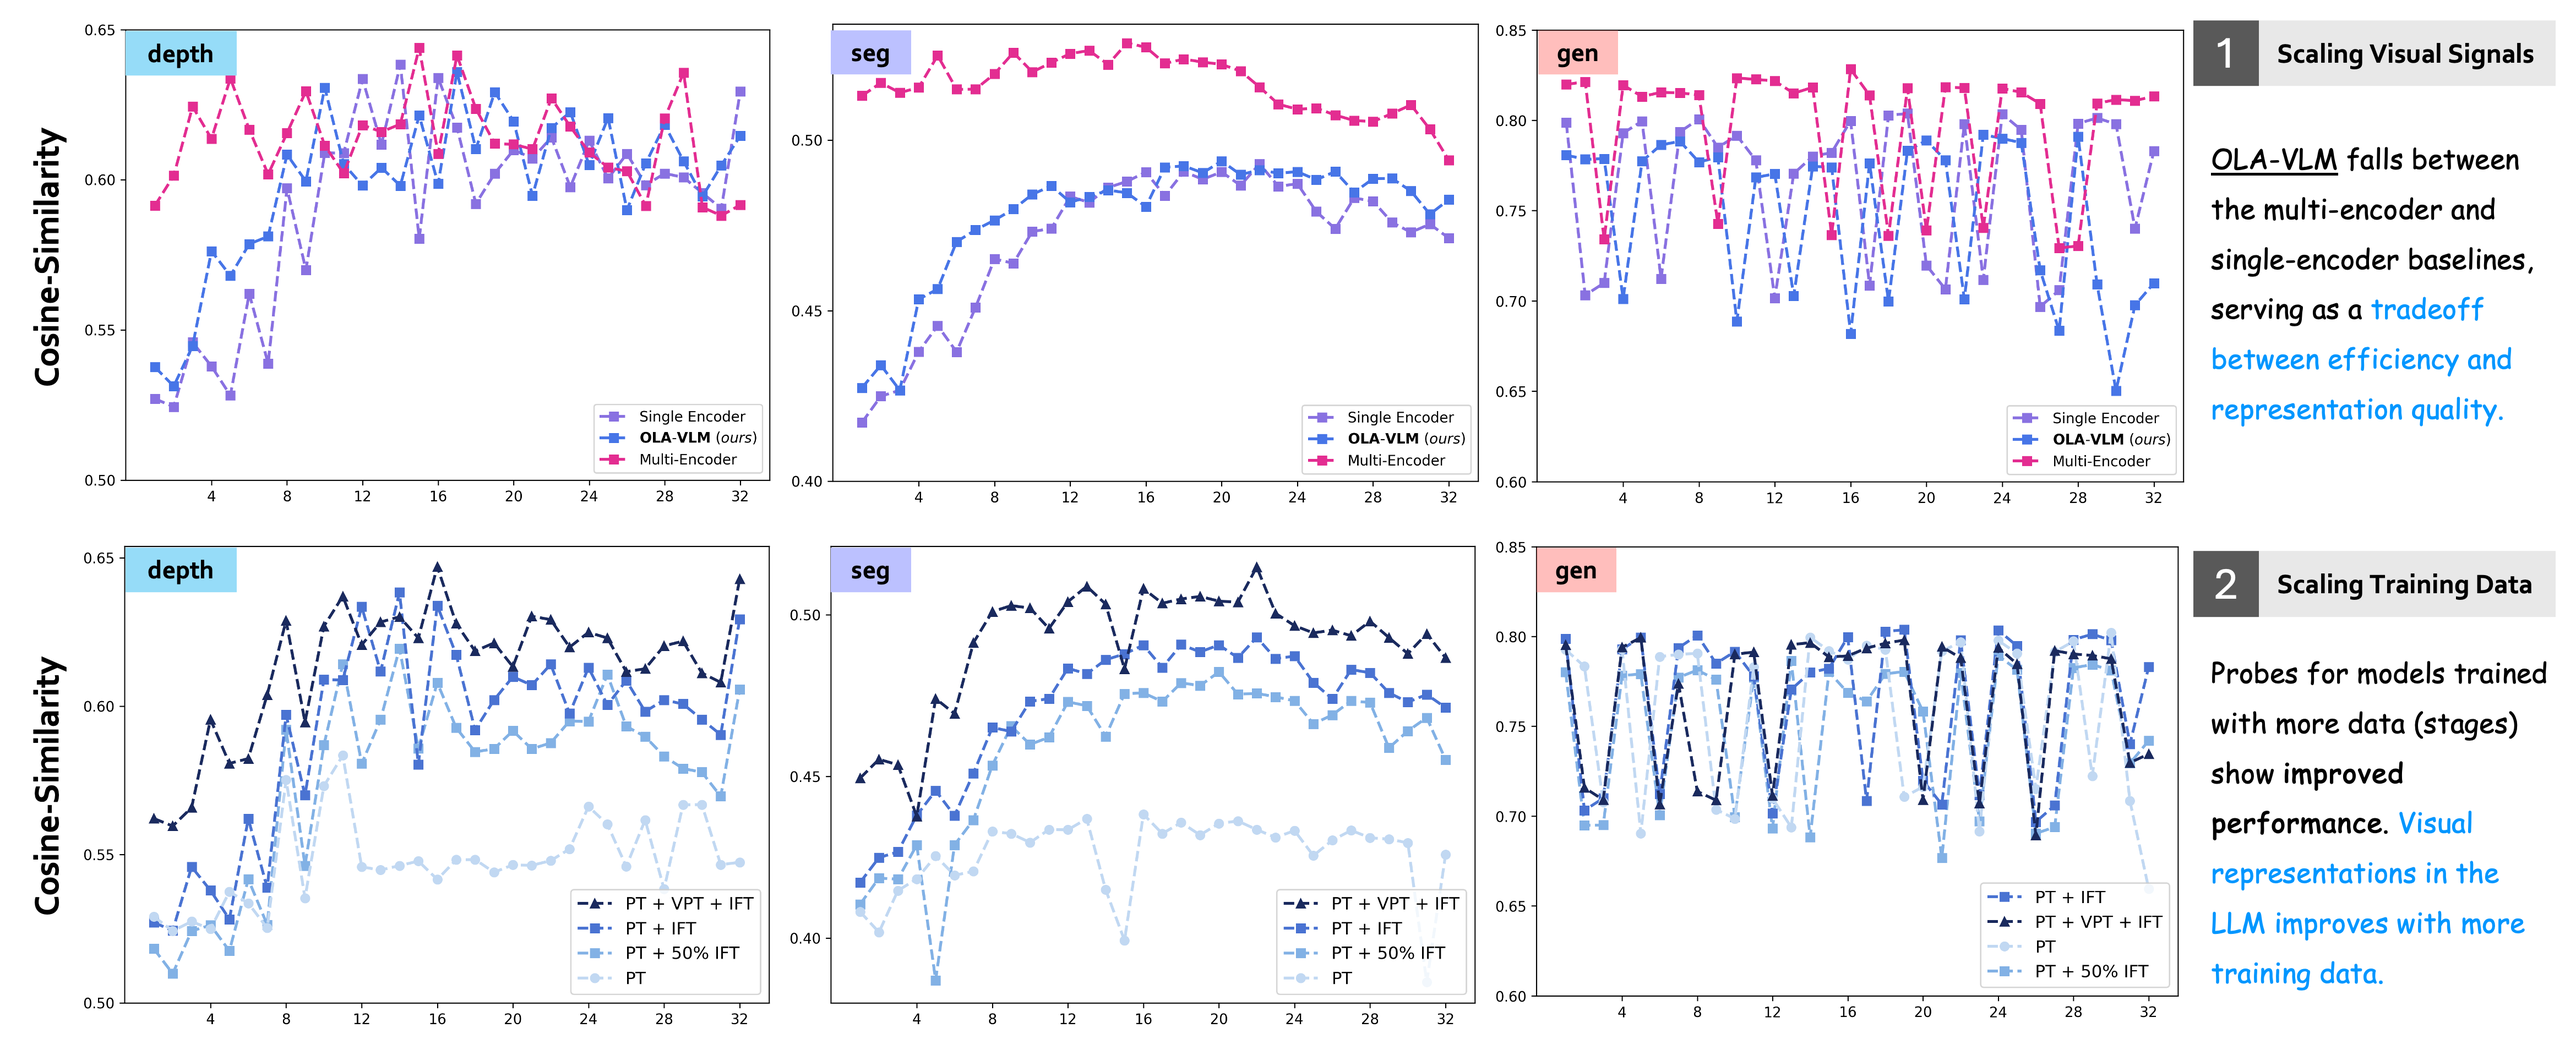
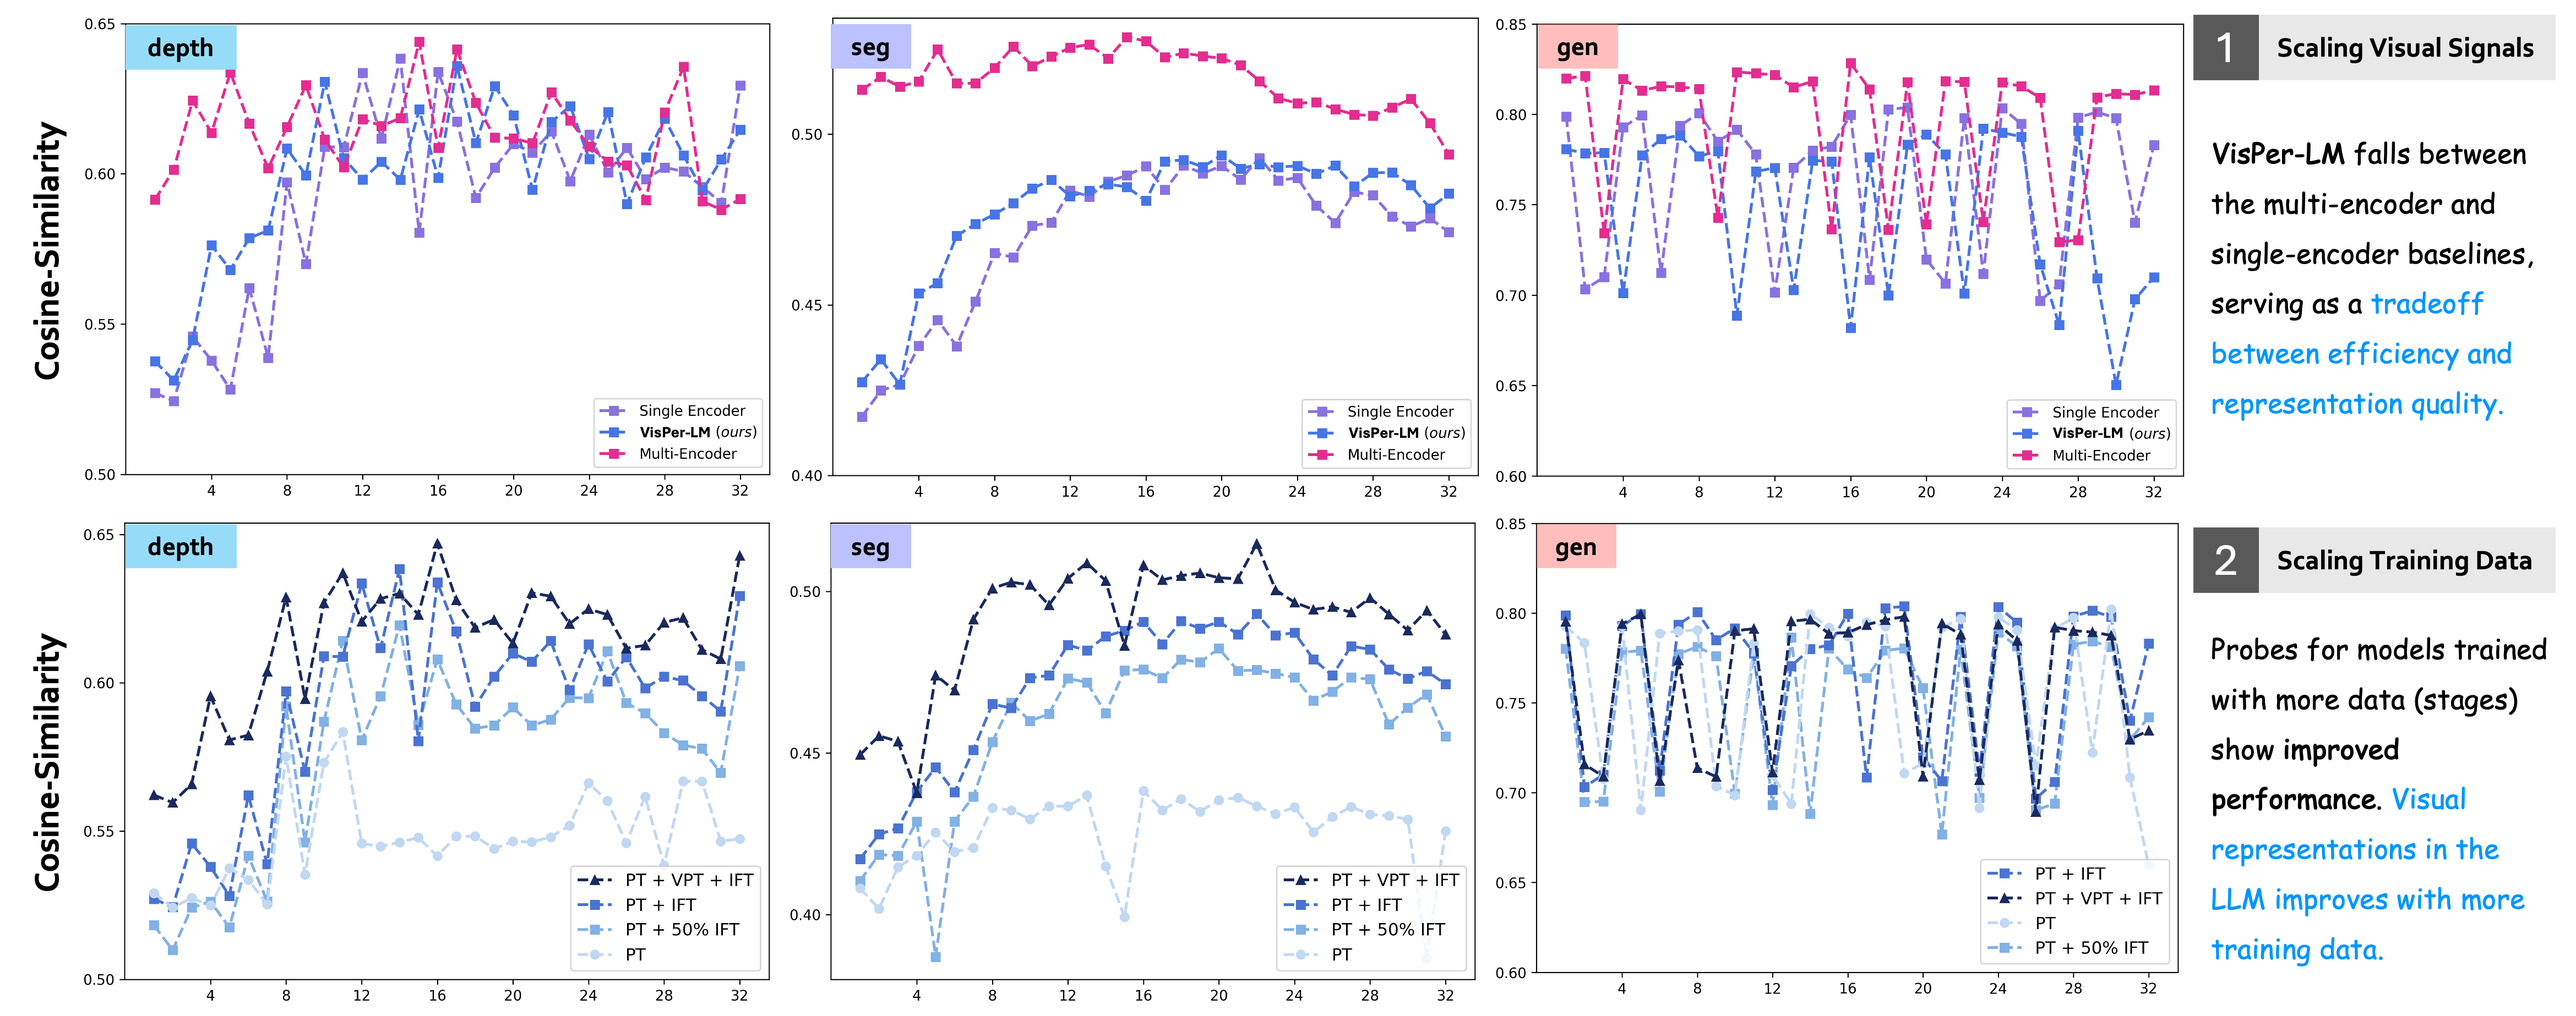
:zap: Update name to VisPer-LM

diff --git a/demo.py b/demo.py
@@ -357,12 +357,12 @@ txt = gr.Textbox(
 )
 
 
-title = "<h1 style='margin-bottom: -10px; text-align: center'>OLA-VLM: Elevating Visual Perception in Multimodal LLMs with Auxiliary Embedding Distillation</h1>"
+title = "<h1 style='margin-bottom: -10px; text-align: center'>Elevating Visual Perception in Multimodal LLMs with Auxiliary Embedding Distillation</h1>"
 description = "<p style='font-size: 16px; margin: 5px; font-weight: w300; text-align: center'> <a href='https://praeclarumjj3.github.io/' style='text-decoration:none' target='_blank'>Jitesh Jain</a> &nbsp;&nbsp <a href='https://zyang-ur.github.io/' style='text-decoration:none' target='_blank'>Zhengyuan Yang</a> &nbsp;&nbsp <a href='https://www.humphreyshi.com/home' style='text-decoration:none' target='_blank'>Humphrey Shi<sup>*</sup></a> &nbsp;&nbsp <a href='https://www.humphreyshi.com/home' style='text-decoration:none' target='_blank'>Jianfeng Gao<sup>*</sup></a> &nbsp;&nbsp <a href='https://jwyang.github.io/' style='text-decoration:none' target='_blank'>Jianwei Yang<sup>*</sup></a></p>" \
             + "<p style='font-size: 12px; margin: 5px; font-weight: w300; text-align: center'><sup>*</sup>Equal Advising</p>" \
-            + "<p style='font-size: 16px; margin: 5px; font-weight: w600; text-align: center'> <a href='https://praeclarumjj3.github.io/ola_vlm/' target='_blank'>Project Page</a> | <a href='https://youtu.be/' target='_blank'>Video</a> | <a href='https://arxiv.org/abs/2412.09585' target='_blank'>ArXiv</a> | <a href='https://github.com/SHI-Labs/OLA-VLM' target='_blank'>Github</a></p>" \
-            + "<p style='text-align: center; font-size: 14px; margin: 5px; font-weight: w300;'>OLA-VLM introduces a new approach to distilling vision knowledge into the hidden representations of LLMs, utilizing target representations to advance visual perception in MLLMs.</p>" \
-            + "<p style='text-align: left; font-size: 14px; margin: 5px; font-weight: w300;'>In the demo, along with the chatting with OLA-VLM, you can also visualize the intermediate representations from selected layers of the LLM by clicking on the <code style='font-size: 14px;'>Visualize Intermediate Representations</code> button! Note that our demo only supports single image input currently.</p>" \
+            + "<p style='font-size: 16px; margin: 5px; font-weight: w600; text-align: center'> <a href='https://praeclarumjj3.github.io/visper_lm/' target='_blank'>Project Page</a> | <a href='https://youtu.be/' target='_blank'>Video</a> | <a href='https://arxiv.org/abs/2412.09585' target='_blank'>ArXiv</a> | <a href='https://github.com/SHI-Labs/VisPer-LM' target='_blank'>Github</a></p>" \
+            + "<p style='text-align: center; font-size: 14px; margin: 5px; font-weight: w300;'>VisPer-LM introduces a new approach to distilling vision knowledge into the hidden representations of LLMs, utilizing target representations to advance visual perception in MLLMs.</p>" \
+            + "<p style='text-align: left; font-size: 14px; margin: 5px; font-weight: w300;'>In the demo, along with the chatting with VisPer-LM, you can also visualize the intermediate representations from selected layers of the LLM by clicking on the <code style='font-size: 14px;'>Visualize Intermediate Representations</code> button! Note that our demo only supports single image input currently.</p>" \
             + "<ul style='text-align: left; font-size: 14px; margin: 5px; font-weight: w300; padding: 0;'> \
                  <li><b>depth</b>: Visualizes the depth information in the representations using the decoder from the <a href='https://github.com/DepthAnything/Depth-Anything-V2' target='_blank'>Depth-Anything-v2 model</a>.</li> \
                  <li><b>seg</b>: Visualizes the segmentation information in the representations using the decoder from the <a href='https://github.com/SHI-Labs/OneFormer' target='_blank'>OneFormer model</a>.</li> \
@@ -389,7 +389,7 @@ block_css = """
 
 
 textbox = gr.Textbox(show_label=False, placeholder="Enter text and press ENTER", container=False)
-with gr.Blocks(title="OLA-VLM", theme=gr.themes.Default(), css=block_css) as demo:
+with gr.Blocks(title="VisPer-LM", theme=gr.themes.Default(), css=block_css) as demo:
     state = gr.State()
 
     gr.Markdown(title)
@@ -412,7 +412,7 @@ with gr.Blocks(title="OLA-VLM", theme=gr.themes.Default(), css=block_css) as dem
         with gr.Column(scale=8):
             chatbot = gr.Chatbot(
                 elem_id="chatbot",
-                label="OLA-VLM",
+                label="VisPer-LM",
                 height=300,
                 layout="panel",
             )

diff --git a/setup.py b/setup.py
@@ -28,7 +28,7 @@ setup(
     },
     url="https://praeclarumjj3.github.io/ola_vlm",
     project_urls={
-        "Bug Tracker": "https://github.com/SHI-Labs/OLA-VLM/issues"
+        "Bug Tracker": "https://github.com/SHI-Labs/VisPer-LM/issues"
     },
     packages=find_packages(exclude=["assets*", "benchmark*", "docs", "dist*", "playground*", "scripts*", "tests*"]),
     include_package_data=True,

diff --git a/README.md b/README.md
@@ -1,15 +1,15 @@
-# OLA-VLM
+# VisPer-LM (f.k.a. OLA-VLM)
 
-[![Framework: PyTorch](https://img.shields.io/badge/Framework-PyTorch-orange.svg)](https://pytorch.org/) [![HuggingFace space](https://img.shields.io/badge/🤗-HuggingFace%20Space-cyan.svg)](https://huggingface.co/spaces/shi-labs/OLA-VLM) [![YouTube](https://badges.aleen42.com/src/youtube.svg)](https://youtu.be/bY6BN9cNCHg)
+[![Framework: PyTorch](https://img.shields.io/badge/Framework-PyTorch-orange.svg)](https://pytorch.org/) [![HuggingFace space](https://img.shields.io/badge/🤗-HuggingFace%20Space-cyan.svg)](https://huggingface.co/spaces/shi-labs/VisPer-LM) [![YouTube](https://badges.aleen42.com/src/youtube.svg)](https://youtu.be/bY6BN9cNCHg)
 
 [Jitesh Jain<sup>*</sup>](https://praeclarumjj3.github.io/), [Zhengyuan Yang](https://zyang-ur.github.io/), [Humphrey Shi<sup>&dagger;</sup>](https://www.humphreyshi.com/home), [Jianfeng Gao<sup>&dagger;</sup>](https://scholar.google.com/citations?user=CQ1cqKkAAAAJ), [Jianwei Yang<sup>&dagger;</sup>](https://jwyang.github.io/)
 
 
 <sup>*</sup>Work done during an internship at Microsoft Research, Redmond &nbsp;&nbsp; <sup>&dagger;</sup>Equal Advising
 
-[[`Project Page`](https://praeclarumjj3.github.io/ola_vlm/)] | [[`arXiv`](https://arxiv.org/abs/2412.09585)] [[`Model Checkpoints`](https://huggingface.co/models?search=OLA-VLM)] [[`Video`](https://drive.google.com/file/d/1nESAo9SiMt8uTH7GC3sAJIg8qohBC2-t/view?usp=drive_link)] [[`BibTeX`](#citation)]
+[[`Project Page`](https://praeclarumjj3.github.io/visper_lm/)] | [[`arXiv`](https://arxiv.org/abs/2412.09585)] [[`Model Checkpoints`](https://huggingface.co/models?search=OLA-VLM)] [[`Video`](https://drive.google.com/file/d/1nESAo9SiMt8uTH7GC3sAJIg8qohBC2-t/view?usp=drive_link)] [[`BibTeX`](#citation)]
 
-This repo contains the code for our paper **OLA-VLM: Elevating Visual Perception in Multimodal LLMs with Auxiliary Embedding Distillation**.
+This repo contains the code for our paper **Elevating Visual Perception in Multimodal LLMs with Auxiliary Embedding Distillation**.
 
 <p align="center">
     <img src="assets/teaser.png" width="100%" class="center"/>
@@ -27,8 +27,9 @@ We propose **distilling target visual information into the intermediate represen
 
 ## News
 
-- **[December 14, 2024]**: Our demo is now available on [HuggingFace Spaces](https://huggingface.co/spaces/shi-labs/OLA-VLM). Thanks to the HF team for their support with the ZeroGPU grant! 🤗
-- **[December 12, 2024]**: 🚀 [**Project Page**](https://praeclarumjj3.github.io/ola-vlm/), [**ArXiv Preprint**](https://arxiv.org/abs/2412.09585) and [**GitHub Repo**](https://github.com/SHI-Labs/OLA-VLM) are public! We also open-source the [model checkpoints](https://huggingface.co/models?search=OLA-VLM) and [probes](https://huggingface.co/models?search=shi-labs/probe) on huggingface hub! 🎁
+- **[September 21, 2025]**: VisPer-LM is accepted to NeurIPS 2025! 🥂
+- **[December 14, 2024]**: Our demo is now available on [HuggingFace Spaces](https://huggingface.co/spaces/shi-labs/VisPer-LM). Thanks to the HF team for their support with the ZeroGPU grant! 🤗
+- **[December 12, 2024]**: 🚀 [**Project Page**](https://praeclarumjj3.github.io/ola-vlm/), [**ArXiv Preprint**](https://arxiv.org/abs/2412.09585) and [**GitHub Repo**](https://github.com/SHI-Labs/VisPer-LM) are public! We also open-source the [model checkpoints](https://huggingface.co/models?search=OLA-VLM) and [probes](https://huggingface.co/models?search=shi-labs/probe) on huggingface hub! 🎁
 
 ## Installation Instructions
 
@@ -38,15 +39,15 @@ We propose **distilling target visual information into the intermediate represen
 
     ```bash
     git lfs install
-    git clone https://github.com/SHI-Labs/OLA-VLM
-    cd OLA-VLM
+    git clone https://github.com/SHI-Labs/VisPer-LM
+    cd VisPer-LM
     ```
 
 - Setup conda environment with the base dependencies.
 
     ```bash
-    conda create -n ola_vlm -y
-    conda activate ola_vlm
+    conda create -n visper_lm -y
+    conda activate visper_lm
     pip install -e .
     pip install flash-attn --no-build-isolation
     pip install scikit-learn icecream datasets pytorch-fid lpips opencv-python-headless
@@ -58,9 +59,9 @@ We propose **distilling target visual information into the intermediate represen
 
 ## Demo
 
-[![HuggingFace space](https://img.shields.io/badge/🤗-HuggingFace%20Space-cyan.svg)](https://huggingface.co/spaces/shi-labs/OLA-VLM)
+[![HuggingFace space](https://img.shields.io/badge/🤗-HuggingFace%20Space-cyan.svg)](https://huggingface.co/spaces/shi-labs/VisPer-LM)
 
-You can use the Gradio interface to interact with OLA-VLM locally. The demo also supports visualizing the respresentations from the slected intermediate LLM layers (embedding loss positions).
+You can use the Gradio interface to interact with VisPer-LM locally. The demo also supports visualizing the respresentations from the slected intermediate LLM layers (embedding loss positions).
 
 ```bash
 # install demo-specific libraries
@@ -72,7 +73,7 @@ CUDA_VISIBLE_DEVICES=0 python demo.py --model-path shi-labs/pretrain_dsg_OLA-VLM
 
 ## Getting Started
 
->Note: We provide the guide to integrating the embeddding losses from OLA-VLM into any custom MLLM in [Custom_MLLM.md](docs/Custom_MLLM.md)
+>Note: We provide the guide to integrating the embeddding losses from VisPer-LM into any custom MLLM in [Custom_MLLM.md](docs/Custom_MLLM.md)
 
 ### Training
 
@@ -91,23 +92,23 @@ Please see [Probing.md](docs/Probing.md) for probing commands.
 
 | **Method** | **Training Stages** | **LLM** | **Base Encoder** | **CV-Bench** | **MMStar** | **RWQA** | **OK-VQA** | **Checkpoint** |
 |:-----:|:-----:|:-----:|:-----:|:-----:|:-----:|:-----:|:-----:|:-----:|
-| OLA-VLM | PT + IFT | Phi3-4k-mini | CLIP-ViT-L         | 62.5 | 36.0 | 58.0 | 56.4  | [ckpt](https://huggingface.co/shi-labs/OLA-VLM-CLIP-ViT-Phi3-4k-mini) |
-| OLA-VLM | PT + IFT | Phi3-4k-mini | CLIP-ConvNeXT-XXL  | 63.9 | 38.4 | 58.4 | 56.5  | [ckpt](https://huggingface.co/shi-labs/OLA-VLM-CLIP-ConvNeXT-Pgi3-4k-mini) |
-| OLA-VLM | PT + IFT | Llama3-8b    | CLIP-ViT-L         | 61.4 | 39.5 | 57.9 | 56.6  | [ckpt](https://huggingface.co/shi-labs/OLA-VLM-CLIP-ViT-Llama3-8b) |
-| OLA-VLM | PT + IFT | Llama3-8b    | CLIP-ConvNeXT-XXL  | 61.5 | 38.5 | 55.0 | 59.0  | [ckpt](https://huggingface.co/shi-labs/OLA-VLM-CLIP-ConvNeXT-Llama3-8b) |
-| OLA-VLM | PT + VPT + IFT | Llama3-8b    | CLIP-ConvNeXT-XXL  | **64.6** | **40.6** | **62.9** | **61.1**  | [ckpt](https://huggingface.co/shi-labs/vpt_OLA-VLM-CLIP-ConvNeXT-Llama3-8b) |
+| VisPer-LM | PT + IFT | Phi3-4k-mini | CLIP-ViT-L         | 62.5 | 36.0 | 58.0 | 56.4  | [ckpt](https://huggingface.co/shi-labs/OLA-VLM-CLIP-ViT-Phi3-4k-mini) |
+| VisPer-LM | PT + IFT | Phi3-4k-mini | CLIP-ConvNeXT-XXL  | 63.9 | 38.4 | 58.4 | 56.5  | [ckpt](https://huggingface.co/shi-labs/OLA-VLM-CLIP-ConvNeXT-Pgi3-4k-mini) |
+| VisPer-LM | PT + IFT | Llama3-8b    | CLIP-ViT-L         | 61.4 | 39.5 | 57.9 | 56.6  | [ckpt](https://huggingface.co/shi-labs/OLA-VLM-CLIP-ViT-Llama3-8b) |
+| VisPer-LM | PT + IFT | Llama3-8b    | CLIP-ConvNeXT-XXL  | 61.5 | 38.5 | 55.0 | 59.0  | [ckpt](https://huggingface.co/shi-labs/OLA-VLM-CLIP-ConvNeXT-Llama3-8b) |
+| VisPer-LM | PT + VPT + IFT | Llama3-8b    | CLIP-ConvNeXT-XXL  | **64.6** | **40.6** | **62.9** | **61.1**  | [ckpt](https://huggingface.co/shi-labs/vpt_OLA-VLM-CLIP-ConvNeXT-Llama3-8b) |
 
 
 ## Citation
 
-If you found OLA-VLM useful in your research, please consider starring ⭐ us on GitHub and citing 📚 us in your research!
+If you found VisPer-LM useful in your research, please consider starring ⭐ us on GitHub and citing 📚 us in your research!
 
 ```bibtex
-@article{jain2024ola_vlm,
-      title={{OLA-VLM: Elevating Visual Perception in Multimodal LLMs with Auxiliary Embedding Distillation}},
+@inproceedings{jain2025visper_lm,
+      title={{Elevating Visual Perception in Multimodal LLMs with Auxiliary Embedding Distillation}},
       author={Jitesh Jain and Zhengyuan Yang and Humphrey Shi and Jianfeng Gao and Jianwei Yang},
-      journal={arXiv},
-      year={2024}
+      booktitle={NeurIPS},
+      year={2025}
 }
 ```
 

diff --git a/docs/Custom_MLLM.md b/docs/Custom_MLLM.md
@@ -1,6 +1,6 @@
 # Integrate Predictive Embedding Optimization into your Custom MLLM
 
-We provide a base class for our OLA-VLM, making it easy to integrate it into your own MLLM. Below, we outline the steps:
+We provide a base class for our VisPer-LM, making it easy to integrate it into your own MLLM. Below, we outline the steps:
 
 - Extend your MLLM class with the [`BaseOLA_VLM`](../ola_vlm/model/language_model/base_ola_vlm.py) class.
 
@@ -23,7 +23,7 @@ emb_loss = depth_loss + seg_loss + gen_loss
 total_loss = text_ntp_loss + emb_loss
 ```
 
-- You also need to make a few changes to your dataloader as shown in [`ola_vlm_train.py`](https://github.com/SHI-Labs/OLA-VLM/blob/e5133dc149a0bfec3646c3ce6cf79bb902ca187a/ola_vlm/train/ola_vlm_train.py#L774) for LLaVA-like models.
+- You also need to make a few changes to your dataloader as shown in [`ola_vlm_train.py`](https://github.com/SHI-Labs/VisPer-LM/blob/e5133dc149a0bfec3646c3ce6cf79bb902ca187a/ola_vlm/train/ola_vlm_train.py#L774) for LLaVA-like models.
 
 ```python
 class LazySupervisedDataset(Dataset):
@@ -87,6 +87,6 @@ class DataCollatorForSupervisedDataset(object):
         return batch
 ```
 
-- Lastly remember to add [these](https://github.com/SHI-Labs/OLA-VLM/blob/e5133dc149a0bfec3646c3ce6cf79bb902ca187a/ola_vlm/train/ola_vlm_train.py#L1149-L1266) lines before your training function.
+- Lastly remember to add [these](https://github.com/SHI-Labs/VisPer-LM/blob/e5133dc149a0bfec3646c3ce6cf79bb902ca187a/ola_vlm/train/ola_vlm_train.py#L1149-L1266) lines before your training function.
 
 Now, you are all set to optimize the embedding losses along with the next-token prediction during the MLLM training!

diff --git a/docs/Training.md b/docs/Training.md
@@ -1,6 +1,6 @@
-# Training OLA-VLM
+# Training VisPer-LM
 
-By default, we train our OLA-VLM models using two stages:
+By default, we train our VisPer-LM models using two stages:
 
 - **Pre-Training (PT)** with the next-token prediction objective and embedding losses. We set the parameters belonging to the MLP Projector, embedding predictors, and the special task tokens as learnable during the PT stage.
 - **Instruction Fine-tuning (IFT)** with only the next-token prediction objective with the MLP Projector and the LLM parameters set as learnable.
